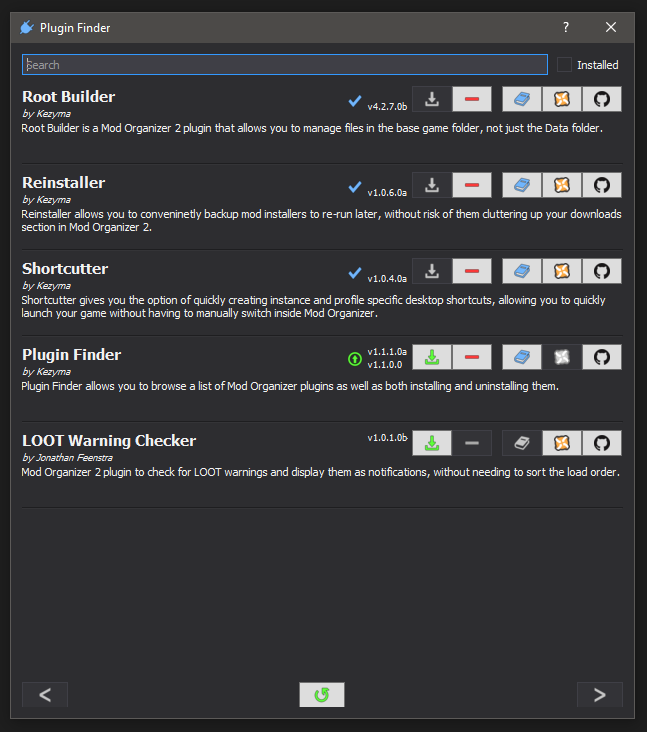
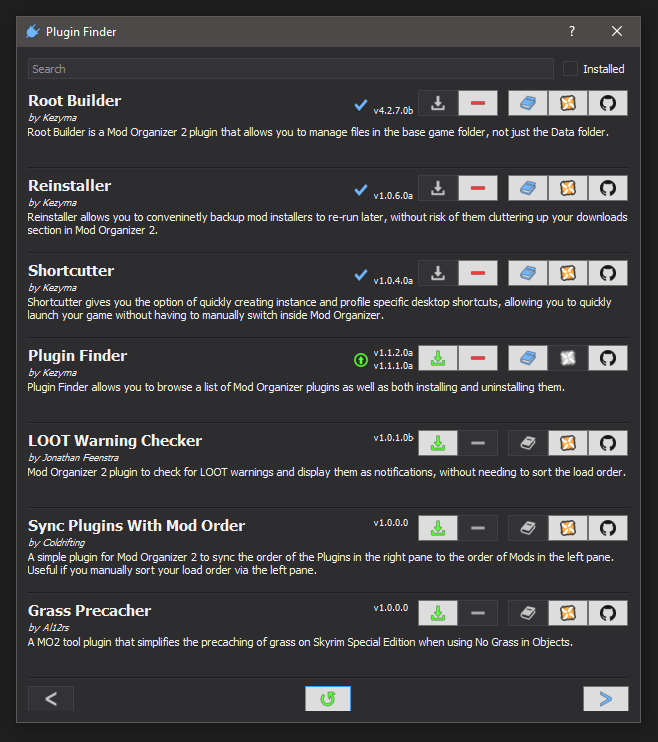
added lostdragonist plugins.

diff --git a/release/pluginfinder/pluginfinder/plugins/pluginfinder_browser.py b/release/pluginfinder/pluginfinder/plugins/pluginfinder_browser.py
@@ -16,6 +16,7 @@ except:
     qtAlignTop = QtCore.Qt.AlignmentFlag.AlignTop
     qtHLine = QtWidgets.QFrame.Shape.HLine
     qtSunken = QtWidgets.QFrame.Shadow.Sunken
+from datetime import datetime
 from ..pluginfinder_plugin import PluginFinderPlugin
 from ..models.plugin_data import PluginData
 from ...shared.shared_utilities import SharedUtilities
@@ -165,23 +166,6 @@ class PluginFinderBrowser(PluginFinderPlugin, mobase.IPluginTool):
         widget.setMinimumSize(QtCore.QSize(602, 80))
         widget.setMaximumSize(QtCore.QSize(602, 80))
         widget.setObjectName("widget")
-        
-        pluginName = QtWidgets.QLabel(widget)
-        pluginName.setGeometry(QtCore.QRect(0, 0, 331, 21))
-        pluginName.setObjectName("pluginName")
-        pluginName.setText("<html><head/><body><p><span style=\" font-size:11pt; font-weight:600;\">" + pluginData.name() + "</span></p></body></html>")
-
-        pluginAuthor = QtWidgets.QLabel(widget)
-        pluginAuthor.setGeometry(QtCore.QRect(0, 20, 381, 16))
-        pluginAuthor.setObjectName("pluginAuthor")
-        pluginAuthor.setText("<html><head/><body><p><span style=\" font-size:7pt; font-style:italic;\">by " + pluginData.author() + "</span></p></body></html>")
-
-        pluginDesc = QtWidgets.QLabel(widget)
-        pluginDesc.setGeometry(QtCore.QRect(0, 35, 601, 41))
-        pluginDesc.setAlignment(qtAlignLeading|qtAlignLeft|qtAlignTop)
-        pluginDesc.setWordWrap(True)
-        pluginDesc.setObjectName("pluginDesc")        
-        pluginDesc.setText(pluginData.description())
 
         moVersion = self.organiser.appVersion().canonicalString()
         currentPlugin = pluginData.current(moVersion) # most recent working plugin.
@@ -200,10 +184,13 @@ class PluginFinderBrowser(PluginFinderPlugin, mobase.IPluginTool):
         showNoDownloadIcon = False
 
         displayVersion = ""
+        displayDate = ""
         if latestPlugin:
             displayVersion = latestPlugin.version()
+            displayDate = datetime.fromisoformat(latestPlugin.released()).strftime("%d %b %Y") + " "
         if currentPlugin and self.utilities.versionIsNewer(installedVersion, currentPlugin.version()):
             displayVersion = currentPlugin.version()
+            displayDate = datetime.fromisoformat(currentPlugin.released()).strftime("%d %b %Y") + " "
 
         if not currentPlugin and not latestPlugin:
             showNoDownloadIcon = True
@@ -266,6 +253,25 @@ class PluginFinderBrowser(PluginFinderPlugin, mobase.IPluginTool):
             statusIcon.setPixmap(self.icons.infoIcon().pixmap(QSize(16,16)))
             statusIcon.setToolTip("This plugin cannot be installed through Plugin Finder.")
             
+        pluginName = QtWidgets.QLabel(widget)
+        pluginName.setGeometry(QtCore.QRect(0, 0, 331, 21))
+        pluginName.setObjectName("pluginName")
+        pluginName.setText("<html><head/><body><p><span style=\" font-size:11pt; font-weight:600;\">" + pluginData.name() + "</span></p></body></html>")
+
+        if pluginData.author() and pluginData.author() != "":
+            pluginAuthor = QtWidgets.QLabel(widget)
+            pluginAuthor.setGeometry(QtCore.QRect(0, 20, 381, 16))
+            pluginAuthor.setObjectName("pluginAuthor")
+            pluginAuthor.setText("<html><head/><body><p><span style=\"font-size:7pt;\">" + displayDate + "</span><span style=\" font-size:7pt; font-style:italic;\">by " + pluginData.author() + "</span></p></body></html>")
+
+        if pluginData.description() and pluginData.description() != "":
+            pluginDesc = QtWidgets.QLabel(widget)
+            pluginDesc.setGeometry(QtCore.QRect(0, 35, 601, 41))
+            pluginDesc.setAlignment(qtAlignLeading|qtAlignLeft|qtAlignTop)
+            pluginDesc.setWordWrap(True)
+            pluginDesc.setObjectName("pluginDesc")        
+            pluginDesc.setText(pluginData.description())
+
         docsButton = QtWidgets.QPushButton(widget)
         docsButton.setGeometry(QtCore.QRect(480, 0, 40, 26))
         docsButton.setText("")

diff --git a/src/pluginfinder/plugins/pluginfinder_browser.py b/src/pluginfinder/plugins/pluginfinder_browser.py
@@ -16,6 +16,7 @@ except:
     qtAlignTop = QtCore.Qt.AlignmentFlag.AlignTop
     qtHLine = QtWidgets.QFrame.Shape.HLine
     qtSunken = QtWidgets.QFrame.Shadow.Sunken
+from datetime import datetime
 from ..pluginfinder_plugin import PluginFinderPlugin
 from ..models.plugin_data import PluginData
 from ...shared.shared_utilities import SharedUtilities
@@ -165,23 +166,6 @@ class PluginFinderBrowser(PluginFinderPlugin, mobase.IPluginTool):
         widget.setMinimumSize(QtCore.QSize(602, 80))
         widget.setMaximumSize(QtCore.QSize(602, 80))
         widget.setObjectName("widget")
-        
-        pluginName = QtWidgets.QLabel(widget)
-        pluginName.setGeometry(QtCore.QRect(0, 0, 331, 21))
-        pluginName.setObjectName("pluginName")
-        pluginName.setText("<html><head/><body><p><span style=\" font-size:11pt; font-weight:600;\">" + pluginData.name() + "</span></p></body></html>")
-
-        pluginAuthor = QtWidgets.QLabel(widget)
-        pluginAuthor.setGeometry(QtCore.QRect(0, 20, 381, 16))
-        pluginAuthor.setObjectName("pluginAuthor")
-        pluginAuthor.setText("<html><head/><body><p><span style=\" font-size:7pt; font-style:italic;\">by " + pluginData.author() + "</span></p></body></html>")
-
-        pluginDesc = QtWidgets.QLabel(widget)
-        pluginDesc.setGeometry(QtCore.QRect(0, 35, 601, 41))
-        pluginDesc.setAlignment(qtAlignLeading|qtAlignLeft|qtAlignTop)
-        pluginDesc.setWordWrap(True)
-        pluginDesc.setObjectName("pluginDesc")        
-        pluginDesc.setText(pluginData.description())
 
         moVersion = self.organiser.appVersion().canonicalString()
         currentPlugin = pluginData.current(moVersion) # most recent working plugin.
@@ -200,10 +184,13 @@ class PluginFinderBrowser(PluginFinderPlugin, mobase.IPluginTool):
         showNoDownloadIcon = False
 
         displayVersion = ""
+        displayDate = ""
         if latestPlugin:
             displayVersion = latestPlugin.version()
+            displayDate = datetime.fromisoformat(latestPlugin.released()).strftime("%d %b %Y") + " "
         if currentPlugin and self.utilities.versionIsNewer(installedVersion, currentPlugin.version()):
             displayVersion = currentPlugin.version()
+            displayDate = datetime.fromisoformat(currentPlugin.released()).strftime("%d %b %Y") + " "
 
         if not currentPlugin and not latestPlugin:
             showNoDownloadIcon = True
@@ -266,6 +253,25 @@ class PluginFinderBrowser(PluginFinderPlugin, mobase.IPluginTool):
             statusIcon.setPixmap(self.icons.infoIcon().pixmap(QSize(16,16)))
             statusIcon.setToolTip("This plugin cannot be installed through Plugin Finder.")
             
+        pluginName = QtWidgets.QLabel(widget)
+        pluginName.setGeometry(QtCore.QRect(0, 0, 331, 21))
+        pluginName.setObjectName("pluginName")
+        pluginName.setText("<html><head/><body><p><span style=\" font-size:11pt; font-weight:600;\">" + pluginData.name() + "</span></p></body></html>")
+
+        if pluginData.author() and pluginData.author() != "":
+            pluginAuthor = QtWidgets.QLabel(widget)
+            pluginAuthor.setGeometry(QtCore.QRect(0, 20, 381, 16))
+            pluginAuthor.setObjectName("pluginAuthor")
+            pluginAuthor.setText("<html><head/><body><p><span style=\"font-size:7pt;\">" + displayDate + "</span><span style=\" font-size:7pt; font-style:italic;\">by " + pluginData.author() + "</span></p></body></html>")
+
+        if pluginData.description() and pluginData.description() != "":
+            pluginDesc = QtWidgets.QLabel(widget)
+            pluginDesc.setGeometry(QtCore.QRect(0, 35, 601, 41))
+            pluginDesc.setAlignment(qtAlignLeading|qtAlignLeft|qtAlignTop)
+            pluginDesc.setWordWrap(True)
+            pluginDesc.setObjectName("pluginDesc")        
+            pluginDesc.setText(pluginData.description())
+
         docsButton = QtWidgets.QPushButton(widget)
         docsButton.setGeometry(QtCore.QRect(480, 0, 40, 26))
         docsButton.setText("")

diff --git a/release/pluginfinder/pluginfinder/modules/pluginfinder_search.py b/release/pluginfinder/pluginfinder/modules/pluginfinder_search.py
@@ -76,17 +76,18 @@ class PluginFinderSearch():
         """ Gets the json file for the current plugin. """
         for plugin in self.directory():
             if str(plugin["Identifier"]) == str(pluginId):
-                url = plugin["Manifest"]
-                try:
-                    with urllib.request.urlopen(str(url)) as r:
-                        data = json.load(r)
-                        if not Path(self.paths.pluginDataCachePath(pluginId)).exists():
-                            Path(self.paths.pluginDataCachePath(pluginId)).touch()
-                        with open(self.paths.pluginDataCachePath(pluginId), "w") as rcJson:
-                            json.dump(data, rcJson)
-                except:
-                    qInfo("Could not download update.")
-                urllib.request.urlcleanup()
+                if "Manifest" in plugin:
+                    url = plugin["Manifest"]
+                    try:
+                        with urllib.request.urlopen(str(url)) as r:
+                            data = json.load(r)
+                            if not Path(self.paths.pluginDataCachePath(pluginId)).exists():
+                                Path(self.paths.pluginDataCachePath(pluginId)).touch()
+                            with open(self.paths.pluginDataCachePath(pluginId), "w") as rcJson:
+                                json.dump(data, rcJson)
+                    except:
+                        qInfo("Could not download update.")
+                    urllib.request.urlcleanup()
 
     def pluginData(self, pluginId=str):
         """ Loads the data for a plugin. """
@@ -98,11 +99,20 @@ class PluginFinderSearch():
             try:
                 data = json.load(open(self.paths.pluginDataCachePath(pluginId)))
                 data["Identifier"] = str(pluginId)
+                if "Name" not in data:
+                    data["Name"] = self.directoryEntryById(pluginId)["Name"]
                 return PluginData(data)
             except:
-                return None
+                qInfo("Could not load plugin " + self.directoryEntryById(pluginId)["Name"])
         # Return an null if we can't load the file.
-        return None
+        return PluginData(self.directoryEntryById(pluginId))
+
+    def directoryEntryById(self, pluginId = str):
+        """ Gets an entry from the directory using a plugin id. """
+        directory = self.directory()
+        for plugin in directory:
+            if plugin["Identifier"] == pluginId:
+                return plugin
 
     def pagedPluginData(self, searchTerms=str, installed=False, page=int, pageSize=int):
         """ Get a paged list of plugin data. """

diff --git a/src/pluginfinder/modules/pluginfinder_search.py b/src/pluginfinder/modules/pluginfinder_search.py
@@ -76,17 +76,18 @@ class PluginFinderSearch():
         """ Gets the json file for the current plugin. """
         for plugin in self.directory():
             if str(plugin["Identifier"]) == str(pluginId):
-                url = plugin["Manifest"]
-                try:
-                    with urllib.request.urlopen(str(url)) as r:
-                        data = json.load(r)
-                        if not Path(self.paths.pluginDataCachePath(pluginId)).exists():
-                            Path(self.paths.pluginDataCachePath(pluginId)).touch()
-                        with open(self.paths.pluginDataCachePath(pluginId), "w") as rcJson:
-                            json.dump(data, rcJson)
-                except:
-                    qInfo("Could not download update.")
-                urllib.request.urlcleanup()
+                if "Manifest" in plugin:
+                    url = plugin["Manifest"]
+                    try:
+                        with urllib.request.urlopen(str(url)) as r:
+                            data = json.load(r)
+                            if not Path(self.paths.pluginDataCachePath(pluginId)).exists():
+                                Path(self.paths.pluginDataCachePath(pluginId)).touch()
+                            with open(self.paths.pluginDataCachePath(pluginId), "w") as rcJson:
+                                json.dump(data, rcJson)
+                    except:
+                        qInfo("Could not download update.")
+                    urllib.request.urlcleanup()
 
     def pluginData(self, pluginId=str):
         """ Loads the data for a plugin. """
@@ -98,11 +99,20 @@ class PluginFinderSearch():
             try:
                 data = json.load(open(self.paths.pluginDataCachePath(pluginId)))
                 data["Identifier"] = str(pluginId)
+                if "Name" not in data:
+                    data["Name"] = self.directoryEntryById(pluginId)["Name"]
                 return PluginData(data)
             except:
-                return None
+                qInfo("Could not load plugin " + self.directoryEntryById(pluginId)["Name"])
         # Return an null if we can't load the file.
-        return None
+        return PluginData(self.directoryEntryById(pluginId))
+
+    def directoryEntryById(self, pluginId = str):
+        """ Gets an entry from the directory using a plugin id. """
+        directory = self.directory()
+        for plugin in directory:
+            if plugin["Identifier"] == pluginId:
+                return plugin
 
     def pagedPluginData(self, searchTerms=str, installed=False, page=int, pageSize=int):
         """ Get a paged list of plugin data. """

diff --git a/release/pluginfinder/readme.md b/release/pluginfinder/readme.md
@@ -40,14 +40,66 @@ After installing or uninstalling plugins, Mod Organizer will restart.
 Determines whether the Plugin Finder plugin is enabled in Mod Organizer.
 
 ### Adding Plugins
-If you want a plugin added to Plugin Finder, you will need to create a json file in your github repository following this [template](https://github.com/Kezyma/ModOrganizer-Plugins/blob/main/directory/plugin_template.json) and you can use the json file for Plugin Finder as an example [here](https://github.com/Kezyma/ModOrganizer-Plugins/blob/main/directory/plugins/pluginfinder.json).
+If you want a plugin added to Plugin Finder, you will need to create a json file in your github repository following this template;
+```
+{
+  "Name": "Plugin Name",
+  "Author": "Author Name",
+  "Description": "A short description of your plugin.",
+  "NexusUrl": "URL to the Nexus page for your plugin.",
+  "GithubUrl": "URL to the Github page for your plugin.",
+  "DocsUrl": "URL to the documentation or readme for your plugin.",
+  "Versions": [
+    {
+      "Version": "Version of this release.",
+      "Released": "Date of this release, in format yyyy-MM-dd",
+      "MinSupport": "Minimum version of Mod Organizer that this release is known to work for. Displays a warning when installing to earlier versions.",
+      "MaxSupport": "Maximum version of Mod Organizer that this release is known to work for. Displays a warning when installing to newer versions.",
+      "MinWorking": "Minimum version of Mod Organizer that this release works for. Prevents installation to earlier versions.",
+      "MaxWorking": "Maximum version of Mod Organizer that this release works for. Prevents installation to newer versions.",
+      "DownloadUrl": "Direct download URL of the zipped release of this plugin",
+      "PluginPath": [ "Array of paths, relative to the zipped download. Any files or folders specified will be copied to the Mod Organizer plugins folder on install." ],
+      "LocalePath": [ "Array of paths, relative to the zipped download. Any files or folders specified will be copied to the Mod Organizer translations folder on install." ],
+      "DataPath": [ "Array of paths, relative to the Mod Organizer plugins folder. Any files or folders specified will be deleted when the plugin is uninstalled." ],
+      "ReleaseNotes": [ "Array of release notes for this release." ]
+    }
+  ]
+}
+```
+
+And you can use the json file for Root Builder as an example;
+```
+{
+  "Name": "Root Builder",
+  "Author": "Kezyma",
+  "Description": "Root Builder is a Mod Organizer 2 plugin that allows you to manage files in the base game folder, not just the Data folder.",
+  "NexusUrl": "https://www.nexusmods.com/skyrimspecialedition/mods/31720",
+  "GithubUrl": "https://github.com/Kezyma/ModOrganizer-Plugins",
+  "DocsUrl": "https://github.com/Kezyma/ModOrganizer-Plugins/blob/main/readme/rootbuilder/readme.md",
+  "Versions": [
+    {
+      "Version": "4.2.7b",
+      "Released": "2021-12-13",
+      "MinSupport": "2.4.2",
+      "MaxSupport": "2.5.0.0-qt6dev2",
+      "MinWorking": "",
+      "MaxWorking": "",
+      "ReleaseNotes": [ "Added basic support for Mod Organizer 2 v2.5.0" ],
+      "DownloadUrl": "https://github.com/Kezyma/ModOrganizer-Plugins/releases/download/rootbuilder/rootbuilder.4.2.7.zip",
+      "PluginPath": [ "rootbuilder" ],
+      "LocalePath": [],
+      "DataPath": [ "data/rootbuilder" ]
+    }
+  ]
+}
+```
 
 Once your json file is on github (or somewhere else), you'll need to either;
 - Open a pull request adding your file to the [plugin directory](https://github.com/Kezyma/ModOrganizer-Plugins/blob/main/directory/plugin_directory.json) 
 - Open an issue, providing your plugin name and link to your json file.
 - Contact me on Discord and I can add your plugin to the repository. My username is Kezyma#7969
 
-You will need to record new releases in your json file so that Plugin Finders can keep up to date with the latest version of your plugin!
+You will need to record new releases in your json file so that Plugin Finder can keep up to date with the latest version of your plugin!
 
 ## Other Plugins
 #### [Root Builder](https://www.nexusmods.com/skyrimspecialedition/mods/31720), [Reinstaller](https://www.nexusmods.com/skyrimspecialedition/mods/59292), [Shortcutter](https://www.nexusmods.com/skyrimspecialedition/mods/59827)
